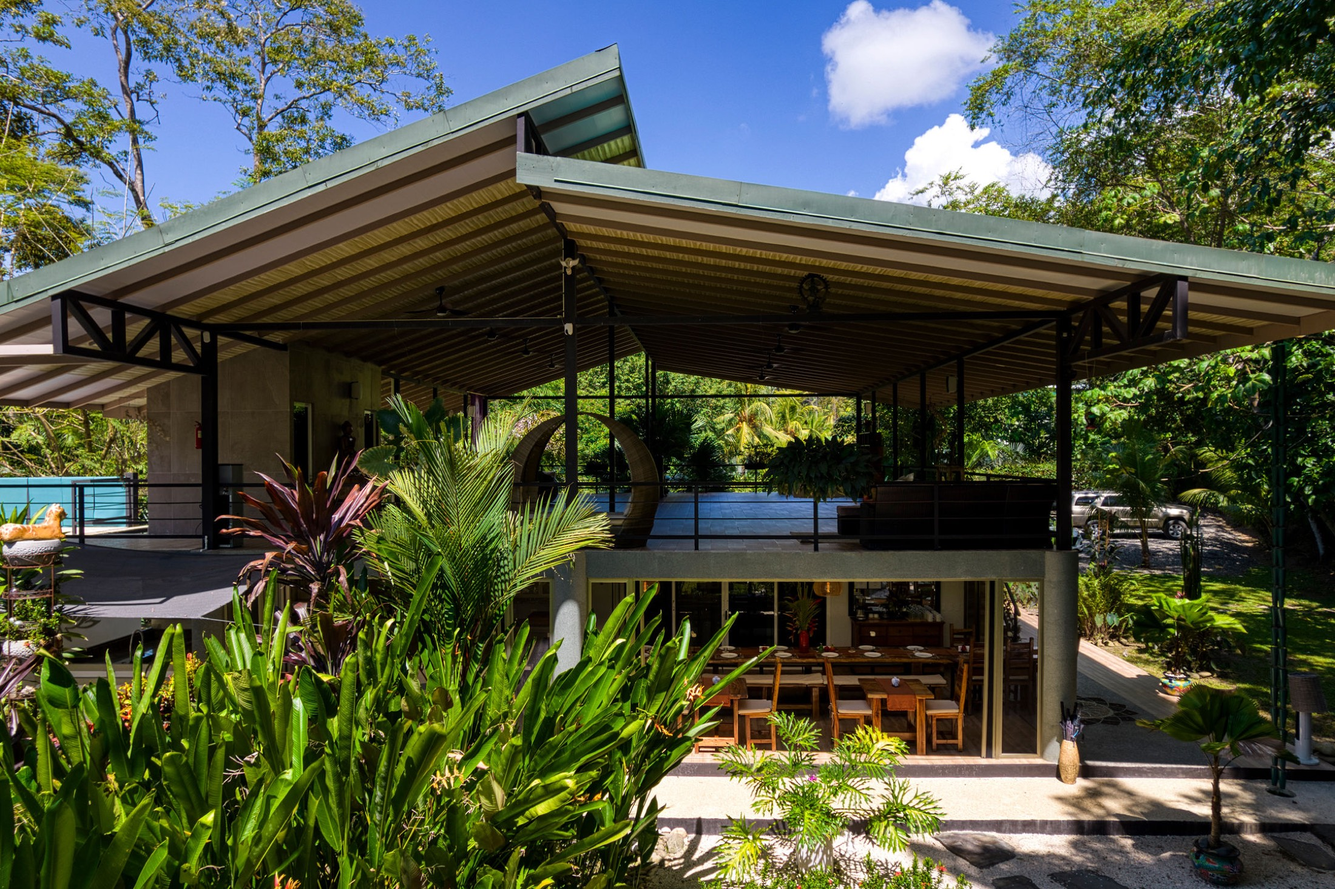
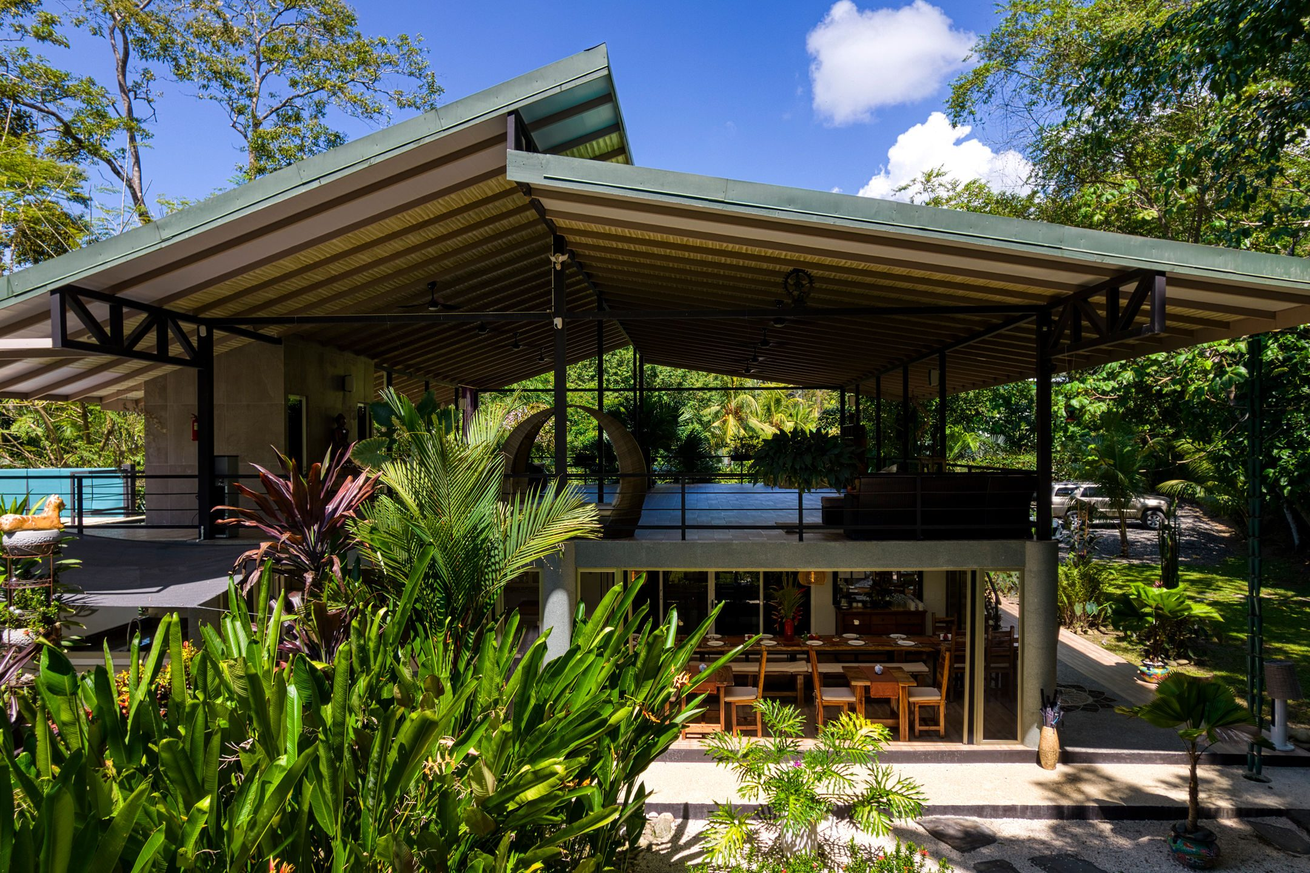
Add original carousel photography across the site
Replaces the hero and closing-section photos with the clearer carousel
originals and adds the missing story imagery: the poker-table and
coconuts photos in the before/after panels, the leaning-palm beach
behind the "This is for you" list (now a full-bleed section matching
carousel slide 2), and the meditation-tent photo behind the
testimonials. All images resized and compressed for the web.

diff --git a/index.html b/index.html
@@ -198,15 +198,28 @@
       </div>
     </div>
 
-    <div class="mx-auto max-w-4xl px-5 sm:px-8 mt-20">
-      <p class="reveal eyebrow text-ink/60 text-center">This is for you if you want</p>
-      <ul class="reveal mt-10 grid sm:grid-cols-2 gap-x-14 gap-y-6 text-xl leading-snug" style="transition-delay:.1s">
-        <li class="flex items-baseline gap-4"><span class="suit text-azure">&#9824;</span><span>A real break from the grind</span></li>
-        <li class="flex items-baseline gap-4"><span class="suit text-azure">&#9829;</span><span>To feel energized in your body &amp; mind</span></li>
-        <li class="flex items-baseline gap-4"><span class="suit text-azure">&#9830;</span><span>New friendships with people who get you</span></li>
-        <li class="flex items-baseline gap-4"><span class="suit text-azure">&#9827;</span><span>A week of tropical vibes in the middle of winter</span></li>
-        <li class="flex items-baseline gap-4"><span class="suit text-azure">&#9824;</span><span>Space to truly nourish, rest, and relax</span></li>
-        <li class="flex items-baseline gap-4"><span class="suit text-azure">&#9829;</span><span>Time to let loose, have fun, and be yourself</span></li>
+  </section>
+
+  <!-- ============================================================ THIS IS FOR YOU — full-bleed, recreates carousel slide 2 ============================================================ -->
+  <section class="relative py-28 sm:py-36 overflow-hidden bg-deep grade">
+    <div class="absolute inset-0">
+      <img src="images/beach-palm.jpg" alt="A palm tree leaning over the beach in Uvita, Costa Rica" class="h-full w-full object-cover" onerror="this.style.display='none'" />
+    </div>
+    <div class="absolute inset-0 bg-[#2A5A74] mix-blend-multiply opacity-40"></div>
+    <div class="absolute inset-0 bg-gradient-to-b from-deep2/60 via-deep2/30 to-deep2/65"></div>
+
+    <div class="relative mx-auto max-w-3xl px-5 sm:px-8">
+      <p class="reveal flex items-center gap-4">
+        <span class="rule bg-cream/60"></span>
+        <span class="eyebrow text-cream">This Is For You If You Want</span>
+      </p>
+      <ul class="reveal mt-10 space-y-6 text-2xl sm:text-3xl leading-snug font-display text-white drop-shadow-[0_2px_16px_rgba(14,32,41,.5)]" style="transition-delay:.1s">
+        <li class="flex items-baseline gap-5"><span class="suit text-cream/90 text-xl">&#9824;</span><span>A real break from the grind</span></li>
+        <li class="flex items-baseline gap-5"><span class="suit text-cream/90 text-xl">&#9829;</span><span>To feel energized in your body &amp; mind</span></li>
+        <li class="flex items-baseline gap-5"><span class="suit text-cream/90 text-xl">&#9830;</span><span>New friendships with people who get you</span></li>
+        <li class="flex items-baseline gap-5"><span class="suit text-cream/90 text-xl">&#9827;</span><span>A week of tropical vibes in the middle of winter</span></li>
+        <li class="flex items-baseline gap-5"><span class="suit text-cream/90 text-xl">&#9824;</span><span>Space to truly nourish, rest, and relax</span></li>
+        <li class="flex items-baseline gap-5"><span class="suit text-cream/90 text-xl">&#9829;</span><span>Time to let loose, have fun, and be yourself</span></li>
       </ul>
     </div>
   </section>
@@ -468,7 +481,12 @@
   </section>
 
   <!-- ============================================================ TESTIMONIALS ============================================================ -->
-  <section class="relative bg-deep grain py-28 sm:py-36 overflow-hidden">
+  <section class="relative bg-deep grain py-28 sm:py-36 overflow-hidden grade">
+    <!-- BACKGROUND — Beau meditating in the tent, as on carousel slide 5 -->
+    <div class="absolute inset-0">
+      <img src="images/beau-meditating.jpg" alt="" aria-hidden="true" class="h-full w-full object-cover" onerror="this.style.display='none'" />
+    </div>
+    <div class="absolute inset-0 bg-deep2/80"></div>
     <div class="relative mx-auto max-w-7xl px-5 sm:px-8 lg:px-12">
       <div class="text-center max-w-2xl mx-auto">
         <p class="reveal flex items-center justify-center gap-4">
